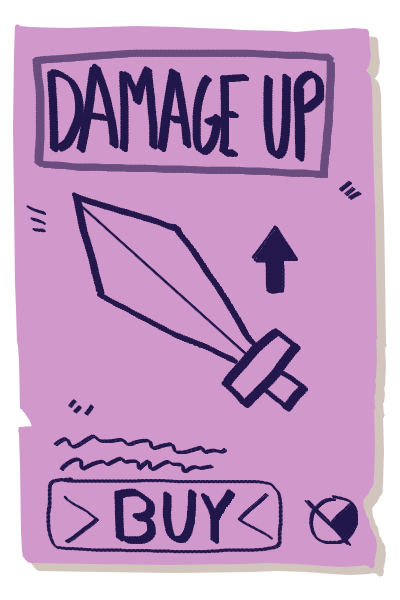
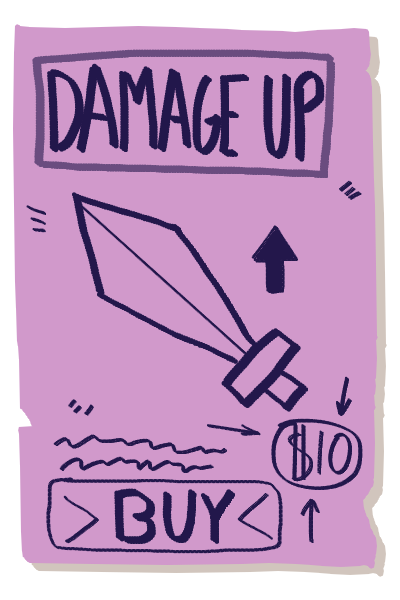
Boss and player animations, amongst some other cosmetic changes.
+ Added Fruit Slime Boss
+ Added Ghost Knight Boss
+ Added animated dragon boss
+ Added animated player sprite
+ Updated shop posters with prices
+ Implemented complete, edit and delete task buttons
+ Imported & updated fonts
+ Fixed some alignment bugs
+ Implemented Matthew's task date fix

Changed region(s): [[0.51, 0.63, 0.93, 0.93]]

diff --git a/src/TaskSystem.tsx b/src/TaskSystem.tsx
@@ -4,10 +4,10 @@ import React, { useState } from "react";
 import headerLeft from "./assets/Task Knight Assets/Corner UI/emptyLevelBadge.png";
 import headerRight from "./assets/Task Knight Assets/Corner UI/goldBag.png";
 
-import character from "./assets/Task Knight Assets/Character UI & Sprites/playerCharacter_default.png";
-import dragon from "./assets/Task Knight Assets/Character UI & Sprites/boss_dragon.png";
-import dragon2 from "./assets/Task Knight Assets/Character UI & Sprites/boss_dragon_blue.png";
-import dragon3 from "./assets/Task Knight Assets/Character UI & Sprites/boss_dragon_purple.png";
+import character from "./assets/Task Knight Assets/Animations/playerIdle.gif";
+import dragon from "./assets/Task Knight Assets/Animations/bossSlimeIdle.gif";
+import dragon2 from "./assets/Task Knight Assets/Animations/bossKnightIdle.gif";
+import dragon3 from "./assets/Task Knight Assets/Animations/bossDragonIdle.gif";
 
 import panelBg from "./assets/Task Knight Assets/Main Panel/Task Panel/panel_tasks.png";
 
@@ -278,7 +278,7 @@ export default function TaskSystem() {
     <div className="app-container no-select">
       <header className="header">
         <img src={headerLeft} alt="Left Header" draggable="false" />
-        <p>Health: {enemyHealth}</p>
+        <p>Boss HP: {enemyHealth}</p>
         <div className="header-right">
           <span className="gold-amount">Gold: {currentGoldAmount}</span>
           <img src={headerRight} alt="Right Header" draggable="false" />
@@ -291,19 +291,30 @@ export default function TaskSystem() {
             className="open-screen-button button-updown"
             src={saveButton}
             draggable="false"
-            onClick={() => { setSaveWindowOpen(!isSaveWindowOpen); setShopWindowOpen(false); }}
+            onClick={() => {
+              setSaveWindowOpen(!isSaveWindowOpen);
+              setShopWindowOpen(false);
+            }}
           />
           <img
             className="button-updown"
             src={shopButton}
             draggable="false"
-            onClick={() => { setShopWindowOpen(!isShopWindowOpen); setSaveWindowOpen(false); }}
+            onClick={() => {
+              setShopWindowOpen(!isShopWindowOpen);
+              setSaveWindowOpen(false);
+            }}
           />
         </aside>
 
         <section className="content">
           <div className="game-scene">
-            <img src={character} alt="Character" className="character" draggable="false" />
+            <img
+              src={character}
+              alt="Character"
+              className="character"
+              draggable="false"
+            />
             <img
               src={images[currentImage]}
               alt="Boss Sprite"
@@ -313,7 +324,12 @@ export default function TaskSystem() {
           </div>
 
           <div className="ui-overlay">
-            <img src={panelBg} alt="Panel Background" className="panel-bg" draggable="false" />
+            <img
+              src={panelBg}
+              alt="Panel Background"
+              className="panel-bg"
+              draggable="false"
+            />
             <div
               className="overlay-content"
               style={{
@@ -405,7 +421,11 @@ export default function TaskSystem() {
                 className="createTask"
                 type="button"
                 draggable="false"
-                onClick={() => { new_task(); setSaveWindowOpen(false); setShopWindowOpen(false); }}
+                onClick={() => {
+                  new_task();
+                  setSaveWindowOpen(false);
+                  setShopWindowOpen(false);
+                }}
                 style={{
                   backgroundSize: "cover",
                   backgroundColor: "transparent",
@@ -415,7 +435,12 @@ export default function TaskSystem() {
                   outline: "none",
                 }}
               >
-                <img src={btnAdd} alt="Add Task Button" className="button-add" draggable="false" />
+                <img
+                  src={btnAdd}
+                  alt="Add Task Button"
+                  className="button-add"
+                  draggable="false"
+                />
               </button>
             </>
           )}

diff --git a/src/TaskDisplay.tsx b/src/TaskDisplay.tsx
@@ -2,6 +2,10 @@ import { useState } from "react";
 import { Task } from "./TaskUtilities";
 import taskBanner from "./assets/Task Knight Assets/Main Panel/Task Panel/taskBackground.png";
 
+import editButton from "./assets/Task Knight Assets/Main Panel/Task Panel/edit_button.png";
+import completeButton from "./assets/Task Knight Assets/Main Panel/Task Panel/complete_button.png";
+import trashButton from "./assets/Task Knight Assets/Main Panel/Task Panel/trash_button.png";
+
 /**
  * Create react component that display a task
  */
@@ -18,26 +22,83 @@ export function TaskDisplay({
       <button
         type="button"
         onClick={() => {
-          edit_handle(task);
+          complete_handle(task.id);
+        }}
+        style={{
+          background: "none",
+          border: "none",
+          padding: 0,
+          margin: 0,
+          cursor: "pointer",
+        }}
+        onMouseEnter={(e) => {
+          (e.currentTarget.firstChild as HTMLImageElement).style.filter =
+            "brightness(1.2)";
+        }}
+        onMouseLeave={(e) => {
+          (e.currentTarget.firstChild as HTMLImageElement).style.filter =
+            "brightness(1)";
         }}
       >
-        Edit
+        <img
+          src={completeButton}
+          alt="Complete Task"
+          style={{ width: "30px", height: "30px", background: "transparent" }}
+        />
       </button>
       <button
         type="button"
         onClick={() => {
-          complete_handle(task.id);
+          edit_handle(task);
+        }}
+        style={{
+          background: "none",
+          border: "none",
+          padding: 0,
+          margin: 0,
+          cursor: "pointer",
+        }}
+        onMouseEnter={(e) => {
+          (e.currentTarget.firstChild as HTMLImageElement).style.filter =
+            "brightness(1.2)";
+        }}
+        onMouseLeave={(e) => {
+          (e.currentTarget.firstChild as HTMLImageElement).style.filter =
+            "brightness(1)";
         }}
       >
-        Complete
+        <img
+          src={editButton}
+          alt="Edit Task"
+          style={{ width: "30px", height: "30px", background: "transparent" }}
+        />
       </button>
       <button
         type="button"
         onClick={() => {
           delete_handle(task.id);
         }}
+        style={{
+          background: "none",
+          border: "none",
+          padding: 0,
+          margin: 0,
+          cursor: "pointer",
+        }}
+        onMouseEnter={(e) => {
+          (e.currentTarget.firstChild as HTMLImageElement).style.filter =
+            "brightness(1.2)";
+        }}
+        onMouseLeave={(e) => {
+          (e.currentTarget.firstChild as HTMLImageElement).style.filter =
+            "brightness(1)";
+        }}
       >
-        Delete
+        <img
+          src={trashButton}
+          alt="Delete Task"
+          style={{ width: "30px", height: "30px", background: "transparent" }}
+        />
       </button>
     </span>
   );
@@ -59,7 +120,7 @@ export function TaskDisplay({
           <br></br>
           <span>Priority: {task.priority}</span>
           <br></br>
-          <span>Time Due: {task.due_time}</span>
+          <span>Time Due: {new Date(task.due_time * 1000).toDateString()}</span>
           <br></br>
           {action == true ? action_buttons : null}
         </div>

diff --git a/src/index.css b/src/index.css
@@ -1,3 +1,9 @@
+@import url('https://fonts.googleapis.com/css2?family=Patrick+Hand&display=swap');
+@import url('https://fonts.googleapis.com/css2?family=Libre+Baskerville&display=swap');
+@import url('https://fonts.googleapis.com/css2?family=Amarante&display=swap');
+
+
+
 /* Reset & base styles */
 * {
   margin: 0;
@@ -9,6 +15,8 @@ html, body, #root {
   width: 100%;
   height: 100%;
   overflow-y: hidden;
+  font-family: 'Amarante', cursive;
+  font-size: 100%;
 }
 
 .app-container {
@@ -62,14 +70,14 @@ html, body, #root {
 }
 
 .character {
-  top: 30%;
+  top: 32.5%;
   left: 30%;
   width: 4%;
 
 }
 
 .dragon {
-  top: 8.5%;
+  top: 11.5%;
   right: 25%;
   width: 25%;
 }
@@ -121,10 +129,10 @@ html, body, #root {
 
 .task-text {
   position: absolute;
-  top: 60%;
+  top: 57%;
   left: 60%;
   transform: translateY(-50%);
-  font-family: 'Comic Sans MS', sans-serif;
+  font-family: 'Patrick Hand', cursive;
   font-size: 1rem;
   
 }

diff --git a/src/GameHelper.tsx b/src/GameHelper.tsx
@@ -539,7 +539,7 @@ export function defeatEnemy(
         sendGameDataToLocalStorage();
 
         giveGold(setCurrentGoldAmount);
-      }, 500);
+      }, 10);
     }
 
     return newHealth;
